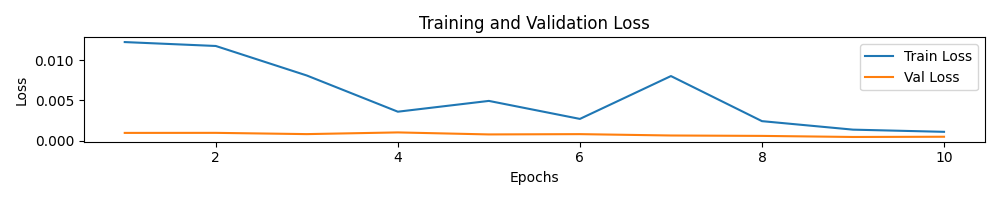
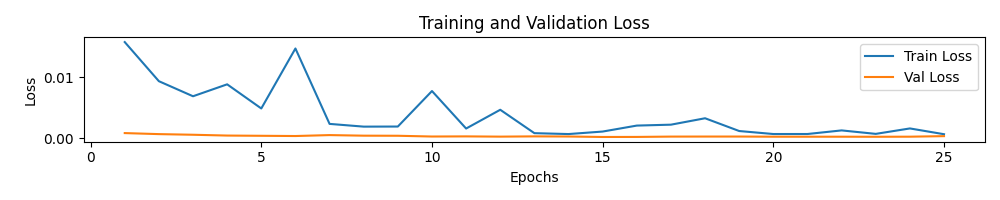
new

diff --git a/main.py b/main.py
@@ -20,6 +20,7 @@ logging.basicConfig(level=logging.INFO, format='%(asctime)s - %(levelname)s - %(
 
 def main(args):
     # Define the data transformation
+    # Define the data transformation
     transform = transforms.Compose([
         transforms.Resize((224, 224)),
         transforms.ToTensor(),
@@ -43,7 +44,7 @@ def main(args):
         criterion = torch.nn.CrossEntropyLoss()
 
         # Define K-fold cross-validation with k=5
-        k_folds = 5
+        k_folds = 2
         kfold = KFold(n_splits=k_folds, shuffle=True)
 
         # K-fold Cross Validation model evaluation

diff --git a/src/config.py b/src/config.py
@@ -1,6 +1,6 @@
 # CNN Configuration
 BATCH_SIZE = 16
-MAX_EPOCHS_NUM = 10
+MAX_EPOCHS_NUM = 25
 FREEZE_BACKBONE = False
 CLASS_NAMES = ["sea", "forest"]
 BACKBONE = 'resnet18'

diff --git a/src/train.py b/src/train.py
@@ -4,6 +4,7 @@ import os
 import mlflow
 import mlflow.pytorch
 from mlflow.models.signature import ModelSignature
+from mlflow.pyfunc import PythonModel
 
 
 import torch
